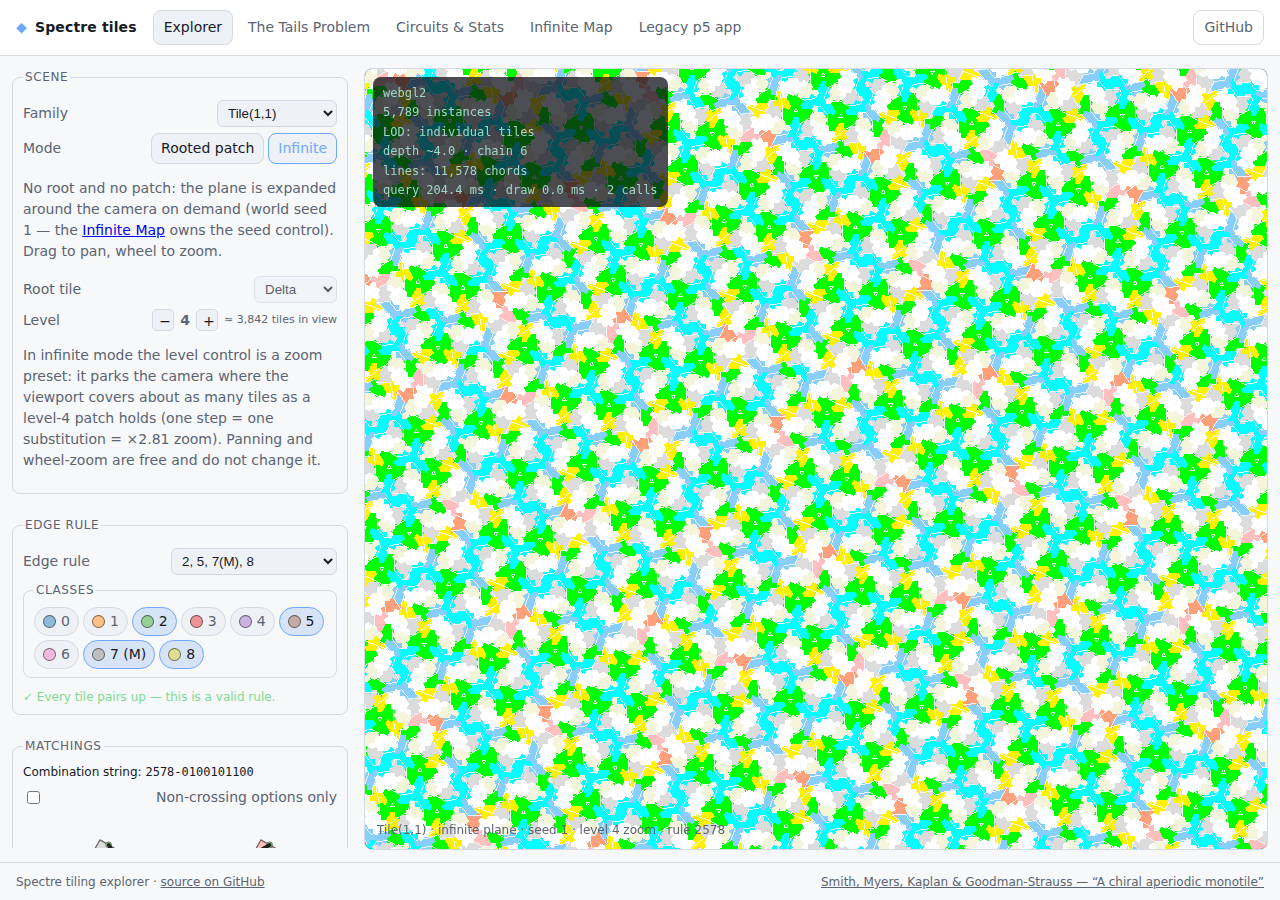
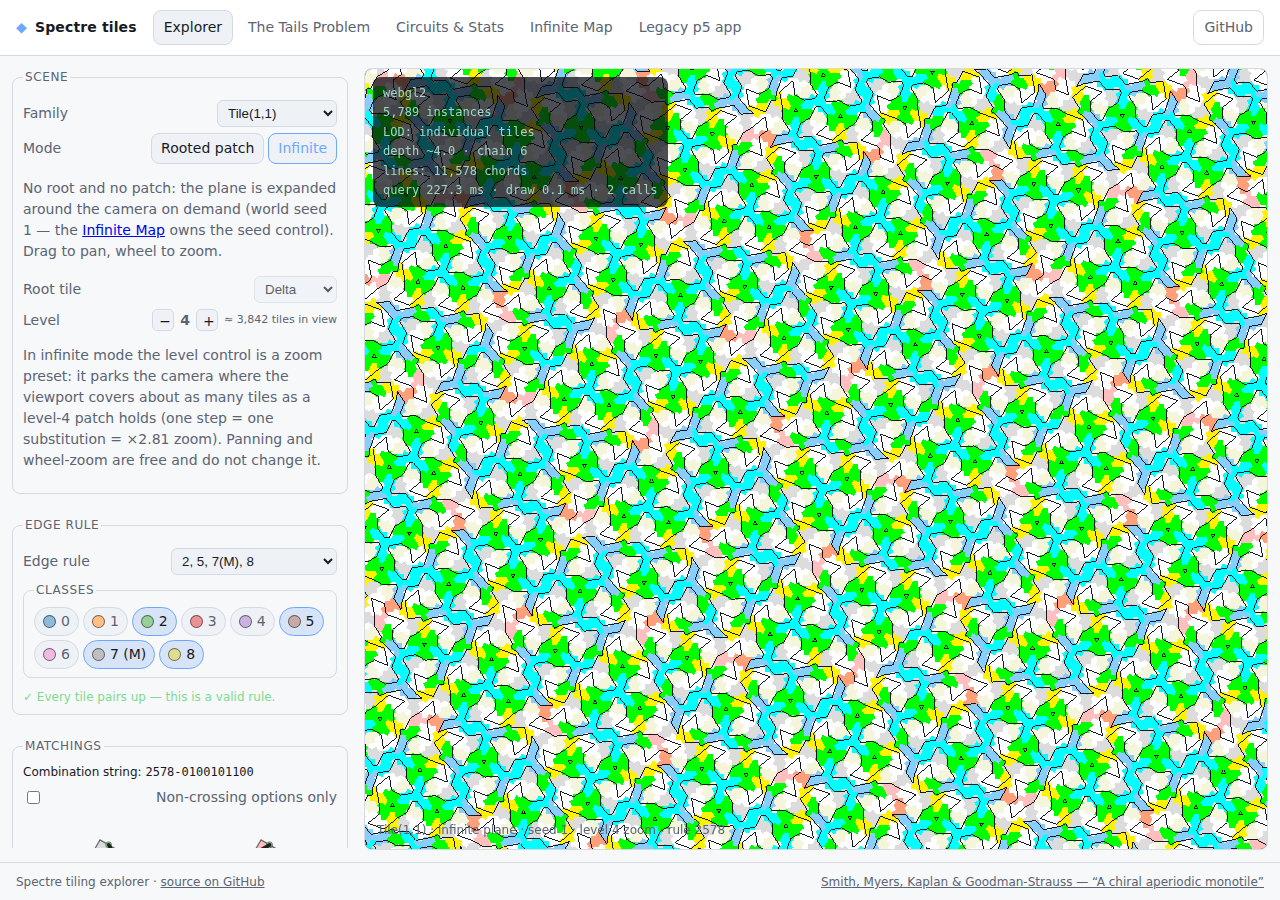
Import the map's line colours into the Explorer
The previous commit snapshotted `ExplorerPage.tsx` between the use of
`DEFAULT_LINE_COLOR`/`LIGHT_LINE_COLOR` and the import that supplies
them, so `typecheck:site` failed on CI with two TS2304s. Adds the import
and refreshes the verification screenshots.

Claude-Session: https://claude.ai/code/session_01CFGyMQr5se2ks97YGcK56J

diff --git a/web/src/pages/MapPage.tsx b/web/src/pages/MapPage.tsx
@@ -338,8 +338,8 @@ export function MapPage(props: MapPageProps): JSX.Element {
           <p className="muted map-lines-help">
             One digit per leaf type (Delta, Theta, Lambda, Xi, Pi, Sigma, Phi, Psi, Gamma2,
             Gamma1) selecting that type&rsquo;s non-crossing matching — the same combination string
-            the stats page and the notebook CSVs use. Chords are drawn flat white: they are local
-            geometry, not analysed circuits.
+            the stats page and the notebook CSVs use. Chords are drawn in ONE flat ink: they are
+            local geometry, not analysed circuits, so nothing here is coloured by circuit length.
           </p>
           {noChords ? (
             <p className="warning-badge" role="status">

diff --git a/web/src/pages/ExplorerPage.tsx b/web/src/pages/ExplorerPage.tsx
@@ -74,6 +74,7 @@ import {
   type InfiniteCanvasStatus,
 } from './map/InfiniteCanvas';
 import type { MapRenderStyle } from './map/rendererTypes';
+import { DEFAULT_LINE_COLOR, LIGHT_LINE_COLOR } from './map/webglRenderer';
 import '../styles/map.css';
 
 export type OverlayTool = 'cursor' | 'line' | 'erase';
